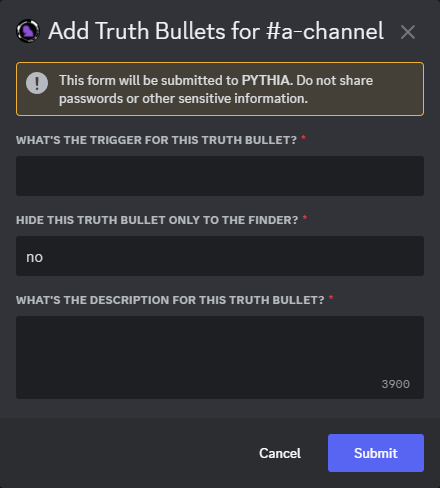
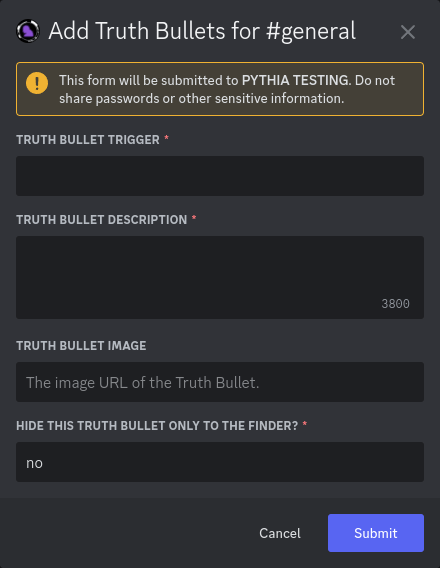
feat: add notes about new features

diff --git a/docs/setup/bda_investigations_setup.md b/docs/setup/bda_investigations_setup.md
@@ -46,7 +46,7 @@ Let's get started by adding Truth Bullets - use `/bullet-manage add` and select 
 
     Do give the button a try, though - you might find it more convenient when you're adding a lot of Truth Bullets!
 
-Once you click that button, a little pop-up will appear, asking you the trigger, if to make this Truth Bullet hidden, and a description (supports Discord markdown!) for the Truth Bullet you're adding.
+Once you click that button, a little pop-up will appear, asking you the trigger, a description (supports Discord markdown!), an optional image, and if you want to make the Truth Bullet you're adding hidden.
 
 <figure markdown>
   ![The pop-up that appears while adding Truth Bullets.](add_bullet_modal.png){ loading="lazy" }
@@ -58,6 +58,9 @@ Once you click that button, a little pop-up will appear, asking you the trigger,
     - Triggers are case-insensitive in terms of how they're triggered, so "oven" and "Oven" will act the same.
     - Trigger detection is _not_ word-bound, so "book" trigger will trigger on messages containing "*book*", "*book*s", "*book*shelf", "*book*!", etc., since they all have "book" in them.
     - If you need multiple triggers, look at aliases, described later.
+
+??? note "Note about Images"
+    Images, unlike in other systems, will be displayed at their full size in the Truth Bullet embed.
 
 ???+ tip "Hiding Truth Bullets"
     If you want to hide a Truth Bullet, you can do so by making the second question a "yes" instead of a no. This makes it so only the finder of the Truth Bullet sees it, instead of the Truth Bullet being published to a public channel. This is useful for secrets or other things you don't want everyone to know about.
@@ -94,7 +97,7 @@ Editing a Truth Bullet is as simple as using `/bullet-manage edit` and specifyin
   ![The pop-up that appears while editing Truth Bullets.](edit_bullet_modal.png){ loading="lazy" }
 </figure>
 
-As you can see, it already has the old trigger and description in it - you'll be able to edit them from there (though you may want to temporarily move the contents to a proper text editor to edit things better). When you press submit, the Truth Bullet will be edited with the new trigger and description.
+As you can see, it already has the Truth Bullet details - you'll be able to edit them from there (though you may want to temporarily move the contents to a proper text editor to edit things better). When you press submit, the Truth Bullet will be edited with the new trigger and description.
 
 To remove a Truth Bullet, it's as simple as using `/bullet-manage remove` with the channel and trigger of the Truth Bullet you want to delete:
 

diff --git a/docs/setup/items_setup.md b/docs/setup/items_setup.md
@@ -59,8 +59,9 @@ All configuration commands for the items systen can be found under the `/items-c
   ![An example of an items system configuration.](items_config.png)
 </figure>
 
-As you can see, the only option available right now is:
+The options available are:
 - `/items-config toggle` turns on or off the items system. Players cannot use any of the items commands (as discussed on the [items usage page](items.md)) if the items system is turned off.
+- `/items-config auto-suggest` allows configuring, when players use `/items here/take`, if the bot should automatically suggest the items currently in the room. If not, they'll have to guess it themselves.
 
 ## Items
 
